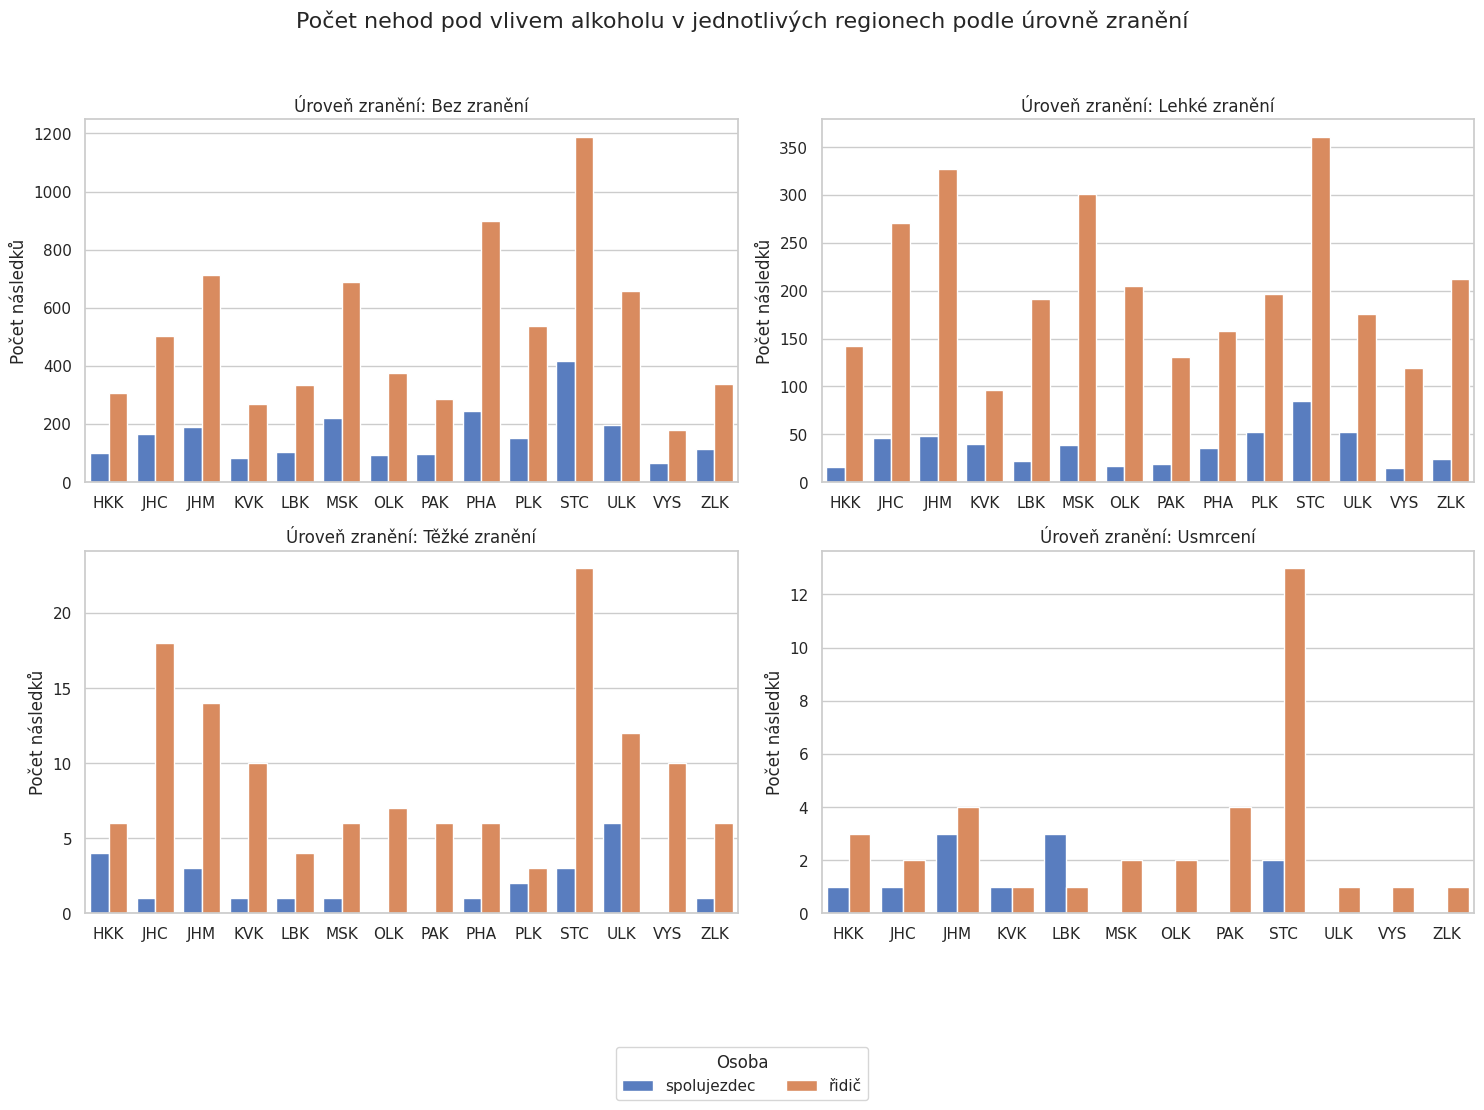
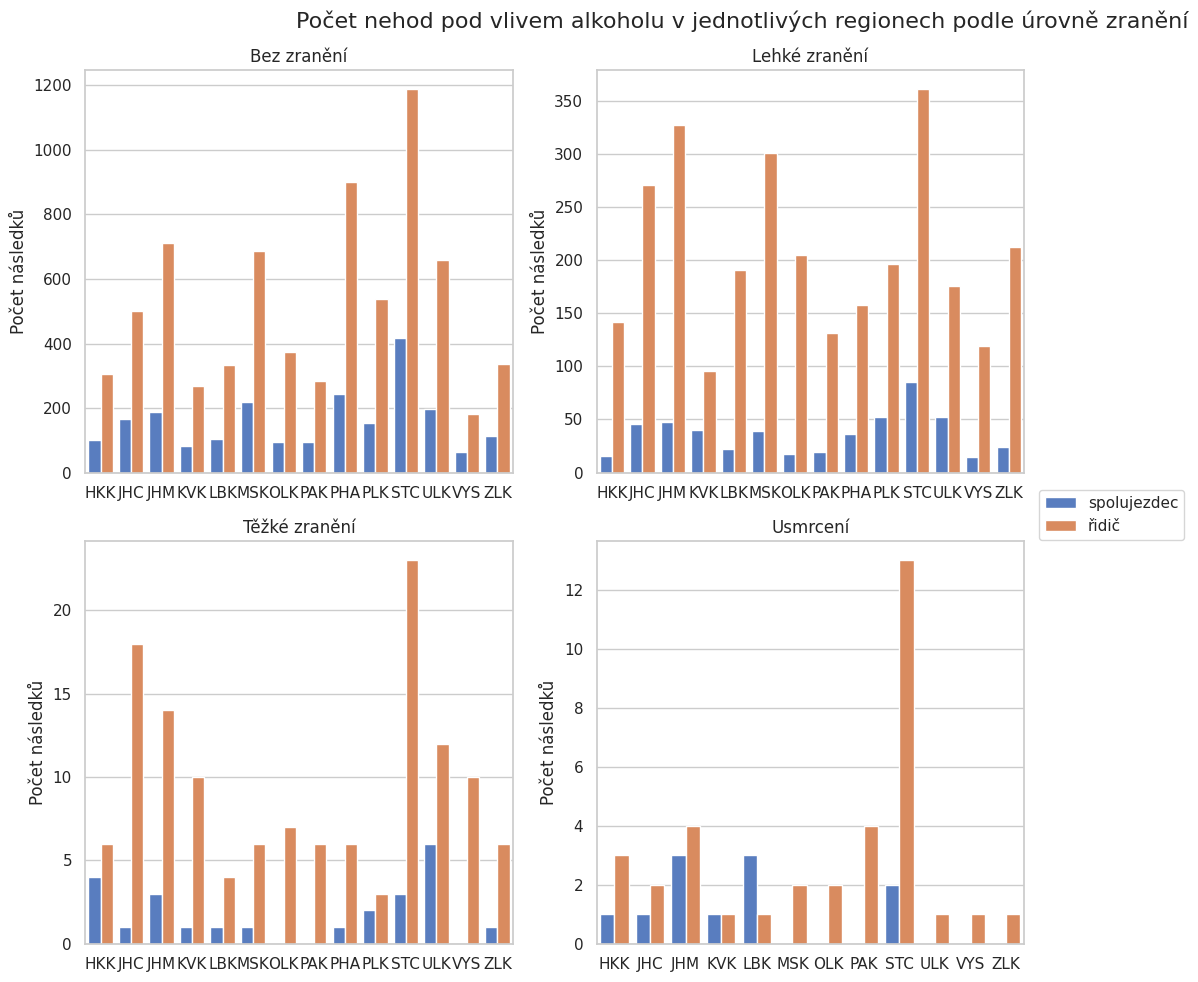
IZV third graph looks okish

Changed region(s): [[0.0, 0.0, 1.0, 1.0], [0.4633, 0.1527, 0.4942, 0.1833]]

diff --git a/5.semestr/IZV/izv-part02/analysis.py b/5.semestr/IZV/izv-part02/analysis.py
@@ -1,12 +1,10 @@
 #!/usr/bin/env python3.12
 # coding=utf-8
-#%%
 from matplotlib import pyplot as plt
 import pandas as pd
 import seaborn as sns
 import numpy as np
 import zipfile
-import sys
 
 # muzete pridat libovolnou zakladni knihovnu ci knihovnu predstavenou na prednaskach
 # dalsi knihovny pak na dotaz
@@ -26,7 +24,6 @@ def load_data(filename: str, ds: str) -> pd.DataFrame:
         # Spojení datových rámců dohromady 
         combined_df = pd.concat(data_frames, ignore_index=True) 
         return combined_df 
-
 
 
 # Ukol 2: zpracovani dat
@@ -52,7 +49,6 @@ def parse_data(df: pd.DataFrame, verbose: bool = False) -> pd.DataFrame:
 
     return new_df
 
-#%%
 # Ukol 3: počty nehod v jednotlivých regionech podle stavu vozovky
 def plot_state(df: pd.DataFrame, fig_location: str = None, show_figure: bool = False):
     # Replace numerical values in p16 with descriptive strings
@@ -69,7 +65,7 @@ def plot_state(df: pd.DataFrame, fig_location: str = None, show_figure: bool = F
     
     for ax, condition in zip(axs.flatten(), conditions):
         sns.barplot(data=accident_counts[accident_counts['road_condition'] == condition], x='region', y='counts', ax=ax)
-        ax.set_title(f'Stav povrchu vozovky: {condition}')
+        ax.set_title(condition)
         ax.set_xlabel('Kraj')
         ax.set_ylabel('Počet nehod')
     
@@ -84,7 +80,8 @@ def plot_state(df: pd.DataFrame, fig_location: str = None, show_figure: bool = F
         plt.show()
     else:
         plt.close()
-#%%
+
+
 # Ukol4: alkohol a následky v krajích
 def plot_alcohol(df: pd.DataFrame, df_consequences: pd.DataFrame, fig_location: str = None, show_figure: bool = False):
     # Merge the dataframes on index p1
@@ -116,20 +113,20 @@ def plot_alcohol(df: pd.DataFrame, df_consequences: pd.DataFrame, fig_location: 
             data=injury_counts[injury_counts['injury_level'] == injury_level],
             x='region', y='counts', hue='person', ax=ax, palette='muted'
         )
-        ax.set_title(f'Úroveň zranění: {injury_level}')
+        ax.set_title(injury_level)
         ax.set_xlabel('')
         ax.set_ylabel('Počet následků')
 
     # Move the legend outside of the plots
     handles, labels = axs[0, 0].get_legend_handles_labels()
-    fig.legend(handles, labels, loc='upper center', title='Osoba', bbox_to_anchor=(0.5, -0.05), ncol=2)
+    fig.legend(handles, labels, loc='center right', bbox_to_anchor=(0.8, 0.475), ncol=1)
     
     # Remove individual legends
     for ax in axs.flatten():
         ax.legend().set_visible(False)
     
     plt.suptitle('Počet nehod pod vlivem alkoholu v jednotlivých regionech podle úrovně zranění', fontsize=16)
-    fig.tight_layout(rect=[0, 0.03, 1, 0.95])  # Adjust layout to make space for the legend
+    fig.tight_layout(rect=[0, 0, 0.7, 1])  # Adjust layout to make space for the legend
     
     # Save figure if location provided
     if fig_location:
@@ -142,10 +139,67 @@ def plot_alcohol(df: pd.DataFrame, df_consequences: pd.DataFrame, fig_location: 
 
 
 # Ukol 5: Druh nehody (srážky) v čase
-def plot_type(df: pd.DataFrame, fig_location: str = None,
-              show_figure: bool = False):
-    pass
-
+def plot_type(df: pd.DataFrame, fig_location: str = None, show_figure: bool = False):
+    # Select four regions
+    selected_regions = ['MSK', 'PHA', 'PAK', 'KVK']  # You can change these to other regions if needed
+    
+    # Filter for collisions only
+    collision_types = {
+        1: 's chodcem', 2: 's domacím zvířetem', 3: 's lesní zvěří', 4: 's nekolejovým vozidlem',
+        5: 's pevnou překážkou', 6: 's tramvají', 7: 's vlakem', 8: 's vozidlem zaparkovaným'
+    }
+    
+    df['collision_type'] = df['p6'].map(collision_types)
+    
+    # Filter for selected regions
+    df_filtered = df[df['region'].isin(selected_regions)]
+    
+    # Pivot table to get the number of collisions per day per region and collision type
+    pivot_df = df_filtered.pivot_table(
+        index=['date', 'region'], 
+        columns='collision_type', 
+        values='p1', 
+        aggfunc='count', 
+        fill_value=0
+    ).reset_index()
+    
+    # Resample by month for each region and collision type
+    pivot_df['date'] = pd.to_datetime(pivot_df['date'])
+    monthly_data = pivot_df.groupby(['region', pd.Grouper(key='date', freq='MS')]).sum().reset_index()
+    
+    # Plot
+    sns.set(style="whitegrid")
+    fig, axs = plt.subplots(2, 2, figsize=(15, 10), sharex=True)
+    regions_sorted = sorted(selected_regions)
+    
+    for ax, region in zip(axs.flatten(), regions_sorted):
+        region_data = monthly_data[monthly_data['region'] == region]
+        region_data = region_data.set_index('date')
+        region_data = region_data.loc['2023-01-01':'2024-10-01']
+        
+        region_data.plot(ax=ax, title=f'Region: {region}')
+        ax.set_xlabel('Datum')
+        ax.set_ylabel('Počet nehod')
+        
+    # Remove the legend from individual plots
+    for ax in axs.flatten():
+        ax.get_legend().remove()
+    
+    # Add a single legend
+    handles, labels = axs[0, 0].get_legend_handles_labels()
+    fig.legend(handles, labels, loc='upper right', bbox_to_anchor=(1.15, 0.5), title='Druh srážky', ncol=1)
+    
+    plt.suptitle('Počet nehod v jednotlivých regionech podle druhu srážky', fontsize=16)
+    fig.tight_layout(rect=[0, 0.03, 1, 0.95])
+    
+    # Save the figure if fig_location is provided
+    if fig_location:
+        plt.savefig(fig_location, bbox_inches='tight')
+    
+    # Show the figure if show_figure is True
+    if show_figure:
+        plt.show()
+    plt.close(fig)
 
 if __name__ == "__main__":
     # zde je ukazka pouziti, tuto cast muzete modifikovat podle libosti
@@ -157,7 +211,7 @@ if __name__ == "__main__":
     df2 = parse_data(df, True)
     
     # plot_state(df2, "01_state.png")
-    plot_alcohol(df2, df_consequences, "02_alcohol.png", True)
+    #plot_alcohol(df2, df_consequences, "02_alcohol.png", True)
     plot_type(df2, "03_type.png")
 
 
